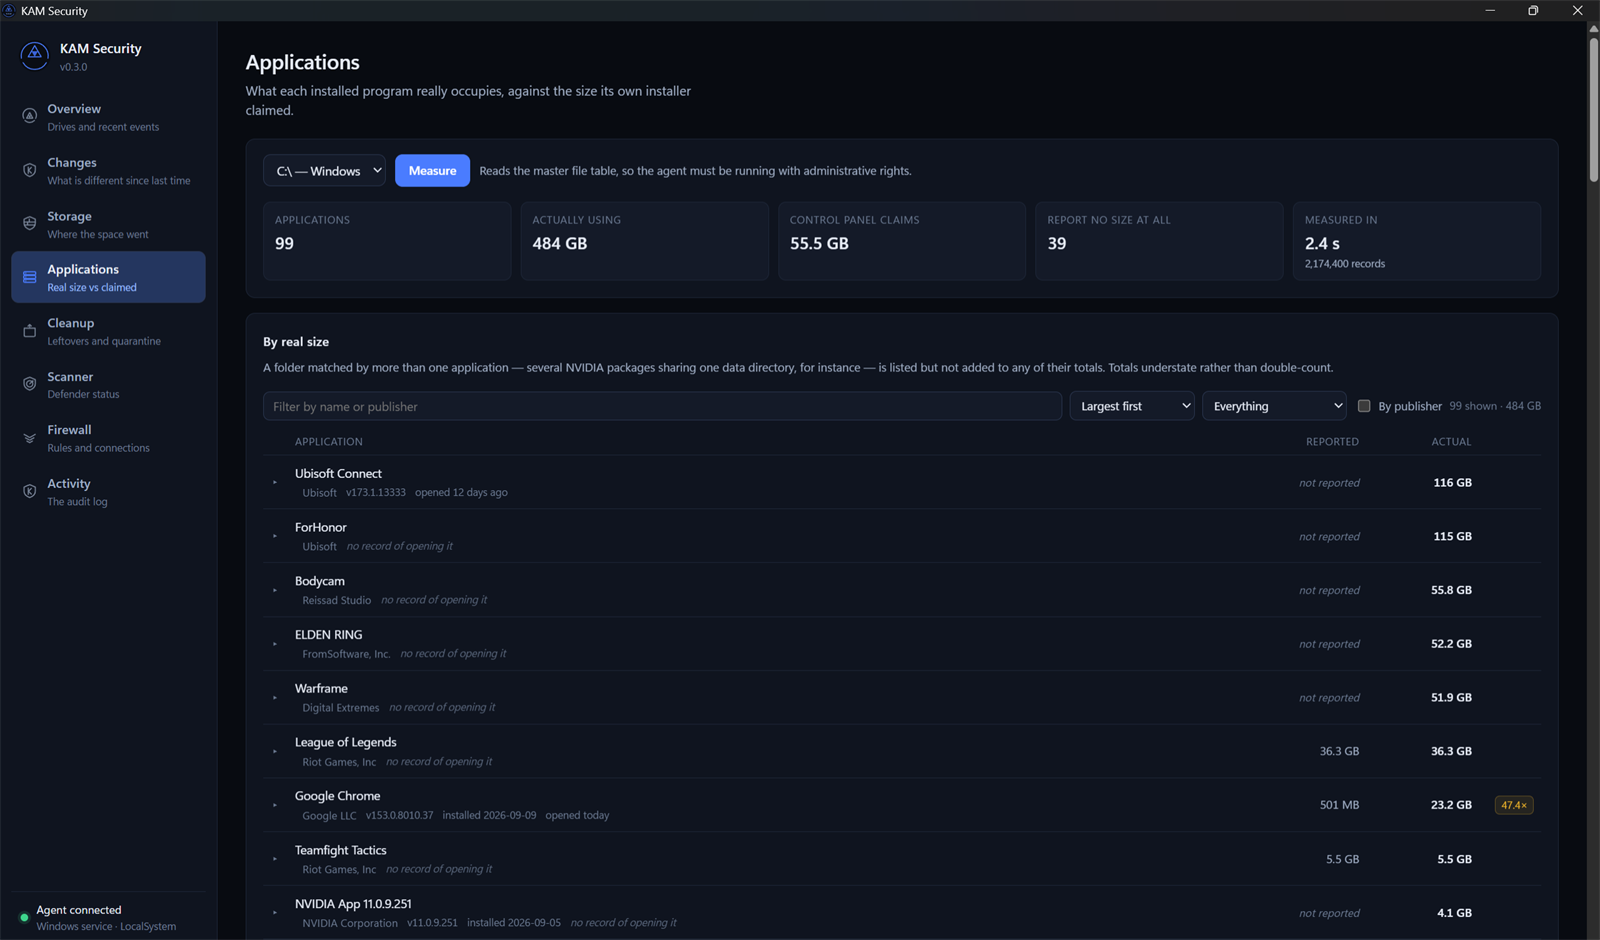
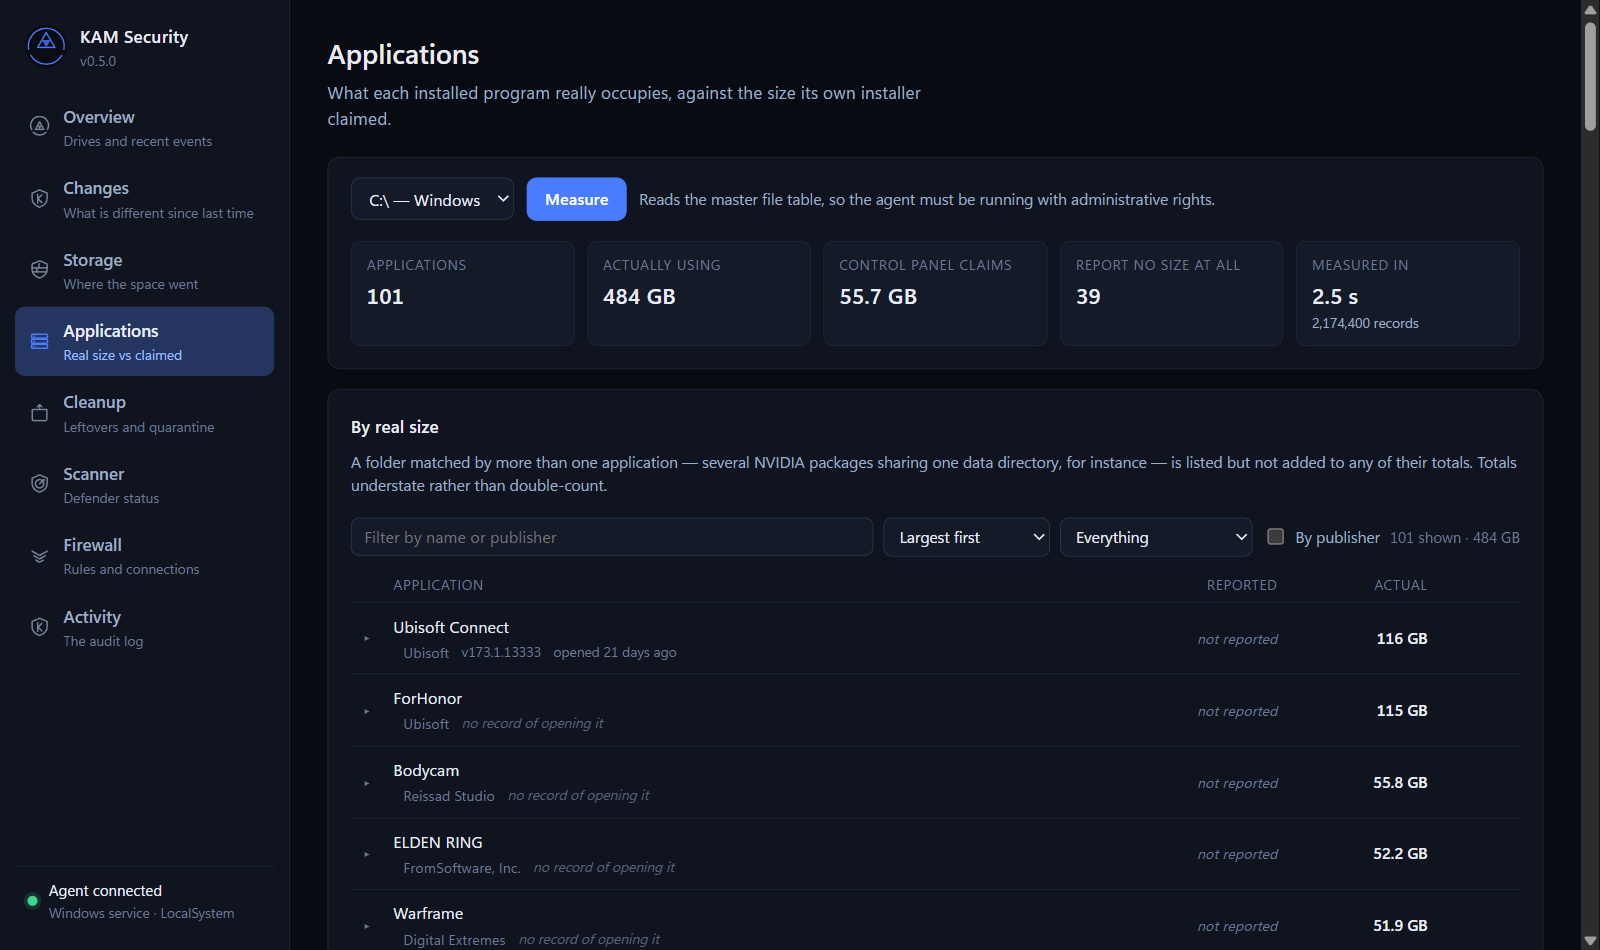
Retake the screenshots at v0.5.0
The README's pictures were of v0.3.0, and two of them showed things fixed
this week: the scanner saying Defender is asked to report rather than
remove, and a detection with no name. All seven are retaken on the v0.5.0
build, and the Changes view gets one beside its own section, showing a
source that could not be read said out loud rather than reported as gone.

They were captured from the window's own renderer at 1600 pixels wide, so
nothing else on the desktop can end up in them, and checked for anything
personal before committing. The hostname and the install path under the
user profile were already public in the old set. Alt text and captions now
describe what the new pictures show.

diff --git a/README.md b/README.md
@@ -44,32 +44,32 @@ Presenting circumstantial evidence as a verdict is the whole business model of
 the software this replaces.
 
 <p align="center">
-  <img src="docs/images/overview.png" width="900" alt="The Overview: protection on, running as a Windows service, and the drives it can see">
+  <img src="docs/images/overview.png" width="900" alt="The Overview: protection on, starting at sign-in in the notification area, the update check, and the drives it can see">
 </p>
 
 <table>
   <tr>
-    <td width="50%"><img src="docs/images/storage.png" alt="Storage: 818 GB across 1.5 million files measured from the master file table in 1.6 seconds, drawn as a treemap"></td>
-    <td width="50%"><img src="docs/images/applications.png" alt="Applications: 484 GB actually used against the 55.5 GB Control Panel claims, sorted by real size"></td>
+    <td width="50%"><img src="docs/images/storage.png" alt="Storage: 845 GB across 1.67 million files measured from the master file table in 2.9 seconds, drawn as a treemap"></td>
+    <td width="50%"><img src="docs/images/applications.png" alt="Applications: 484 GB actually used against the 55.7 GB Control Panel claims, sorted by real size"></td>
   </tr>
   <tr>
-    <td><b>Storage:</b> a whole drive read from the master file table in under two seconds, drawn to scale.</td>
+    <td><b>Storage:</b> a whole drive read from the master file table in about three seconds, drawn to scale.</td>
     <td><b>Applications:</b> what each program really occupies, against what its installer claimed.</td>
   </tr>
   <tr>
-    <td><img src="docs/images/firewall.png" alt="Firewall: every profile on, 690 rules, and every open connection grouped by the publisher that signed the program"></td>
-    <td><img src="docs/images/scanner.png" alt="Scanner: Defender's own protections read from Defender, with a quick or full scan started from here"></td>
+    <td><img src="docs/images/firewall.png" alt="Firewall: 698 rules, 71 open connections, and every connection grouped by the publisher that signed the program, with a colour legend"></td>
+    <td><img src="docs/images/scanner.png" alt="Scanner: Defender's own protections read from Defender, with the same quick or full scan as Windows Security started from here"></td>
   </tr>
   <tr>
     <td><b>Firewall:</b> every open socket, grouped by who signed the program holding it.</td>
     <td><b>Scanner:</b> Defender's real state, and the same scan as Windows Security, started from here.</td>
   </tr>
   <tr>
-    <td><img src="docs/images/cleanup.png" alt="Cleanup: leftovers, a thirty-day quarantine, byte-for-byte duplicates, caches and loose files"></td>
+    <td><img src="docs/images/cleanup.png" alt="Cleanup: ten caches holding 76.9 GB, each marked with whether clearing it costs anything"></td>
     <td><img src="docs/images/overview-activity.png" alt="The weekly check registered for Monday at 09:00, and the audit log of recent activity"></td>
   </tr>
   <tr>
-    <td><b>Cleanup:</b> quarantine for thirty days, or the Recycle Bin. Deleting for good is a separate step.</td>
+    <td><b>Cleanup:</b> caches that say what clearing them costs; removal goes to quarantine or the Recycle Bin.</td>
     <td><b>Weekly check and audit log:</b> state read in seconds, and every action written down.</td>
   </tr>
 </table>
@@ -339,6 +339,10 @@ different: services, Run keys, Startup items, scheduled tasks and local
 administrators, compared against a baseline and charted over twelve weeks.
 There is no score, because a score needs an idea of what a correct machine
 looks like, and this software does not have one.
+
+<p align="center">
+  <img src="docs/images/changes.png" width="900" alt="Changes: fifteen things different since the last look, with a source that could not be read said out loud rather than reported as gone">
+</p>
 
 Things disappearing count at least as much as things appearing. An antivirus
 service or a backup task quietly removed is reported, and Windows reports that
